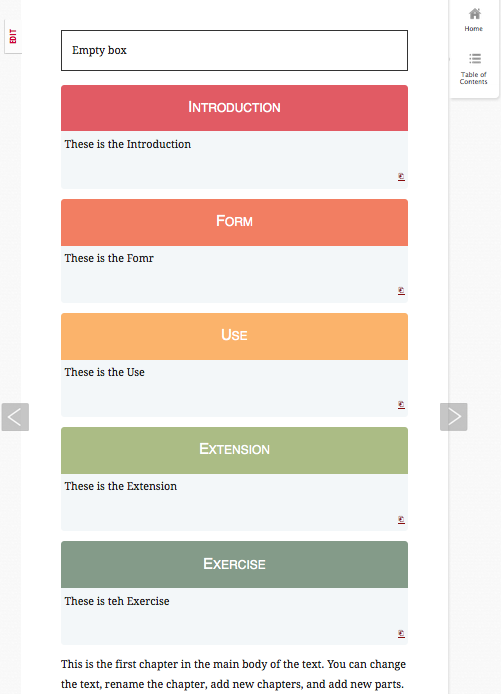
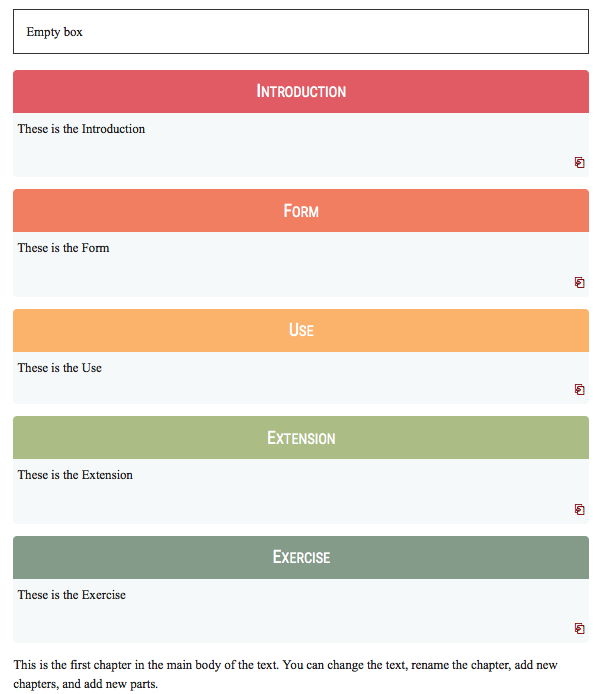
corrections

diff --git a/public/css/tinymce-formats-public.css b/public/css/tinymce-formats-public.css
@@ -7,7 +7,11 @@
 	margin-top: 15px;
 	margin-bottom: 15px;
 	border-radius: 5px;
-	background-color: #f3f7f9;
+	background-color: #f6f9fa;
+	
+	/* #f9fbfc; */
+	
+	/* #f3f7f9; */
 }
 
 .box::before {
@@ -44,4 +48,5 @@
 .box footer {
 	padding-top: 3px;
 	text-align: right;
+	font-size: 1.5em;
 }
